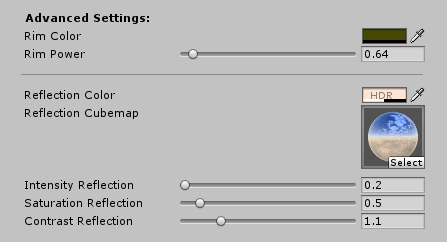
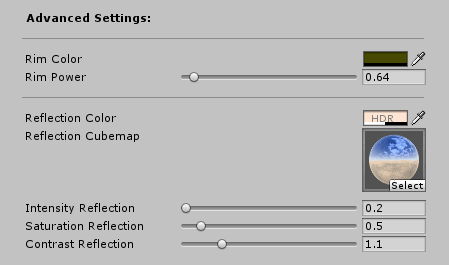
up

diff --git a/unity/nvjob-stc-8-advanced.html b/unity/nvjob-stc-8-advanced.html
@@ -220,6 +220,37 @@ Trees (Broadleaf, Palm) used in the examples are standard examples from SpeedTre
 
 <br/><indent></indent>
 
+
+
+
+
+
+
+<strong>Advanced Settings:</strong>
+<br/><indent></indent>
+<img src="/repo/unity%20assets/stc8/advanced/11.png" alt="#NVJOB STC8 Pro Advanced (Shader for Unity SpeedTree 8) Unity Asset" title="#NVJOB STC8 Pro Advanced (Shader for Unity SpeedTree 8). Unity Asset. #NVJOB Nicholas Veselov Unity Developer. Николай Веселов Unity Разработчик Санкт-Петербург."/>
+<br/><indent></indent>
+
+&#8226; <i></i> - <br/>
+&#8226; <i></i> - <br/>
+&#8226; <i></i> - <br/>
+&#8226; <i></i> - <br/>
+&#8226; <i></i> - <br/>
+&#8226; <i></i> - <br/>
+&#8226; <i></i> - <br/>
+
+
+
+<br/><indent></indent>
+
+
+
+
+
+
+
+
+
 <strong>Color and Light Tuning</strong>
 <br/><indent></indent>
 <img src="/repo/unity%20assets/stc8/advanced/6.png" alt="#NVJOB STC8 Pro Advanced (Shader for Unity SpeedTree 8) Unity Asset" title="#NVJOB STC8 Pro Advanced (Shader for Unity SpeedTree 8). Unity Asset. #NVJOB Nicholas Veselov Unity Developer. Николай Веселов Unity Разработчик Санкт-Петербург."/>
